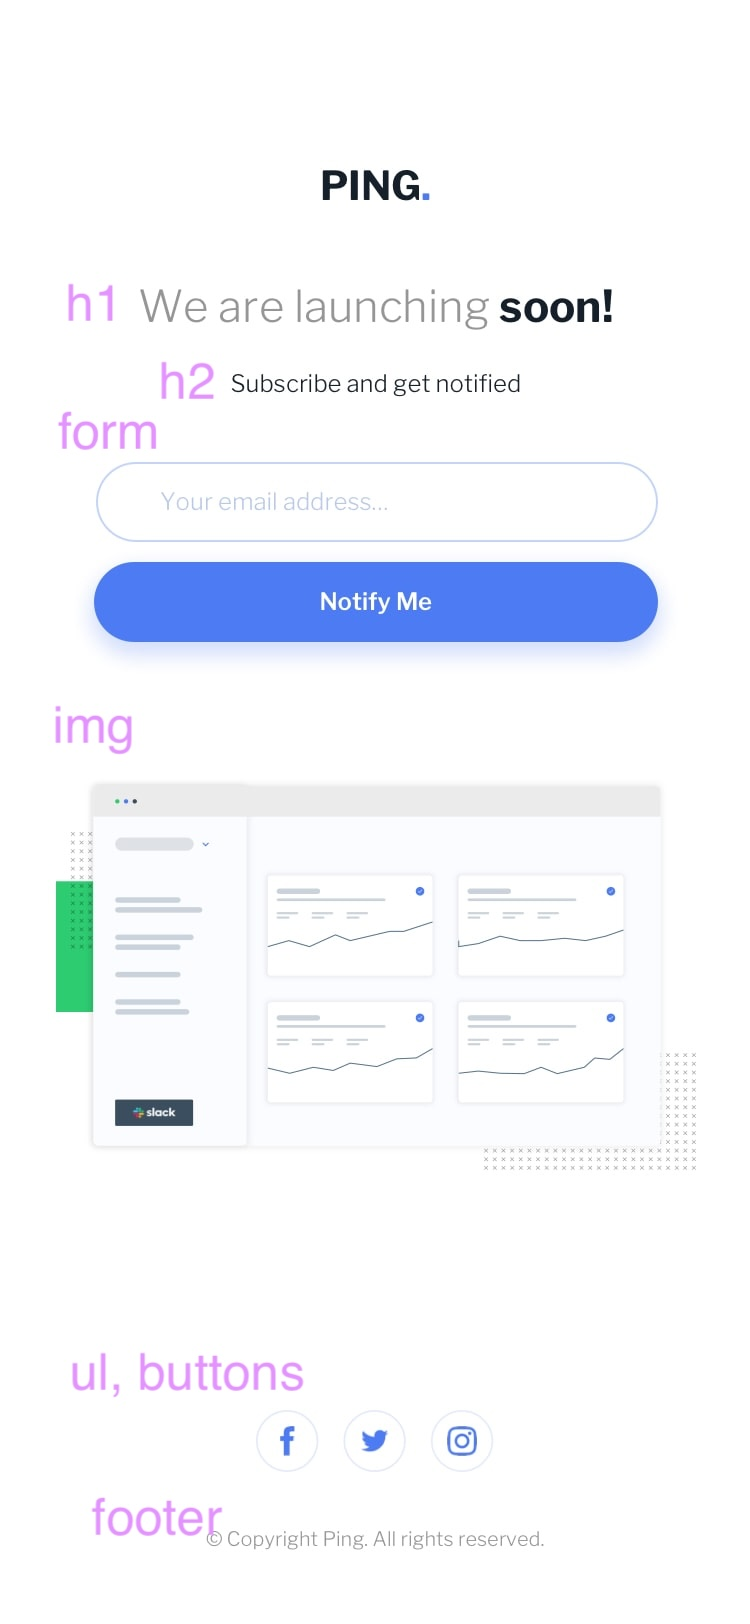
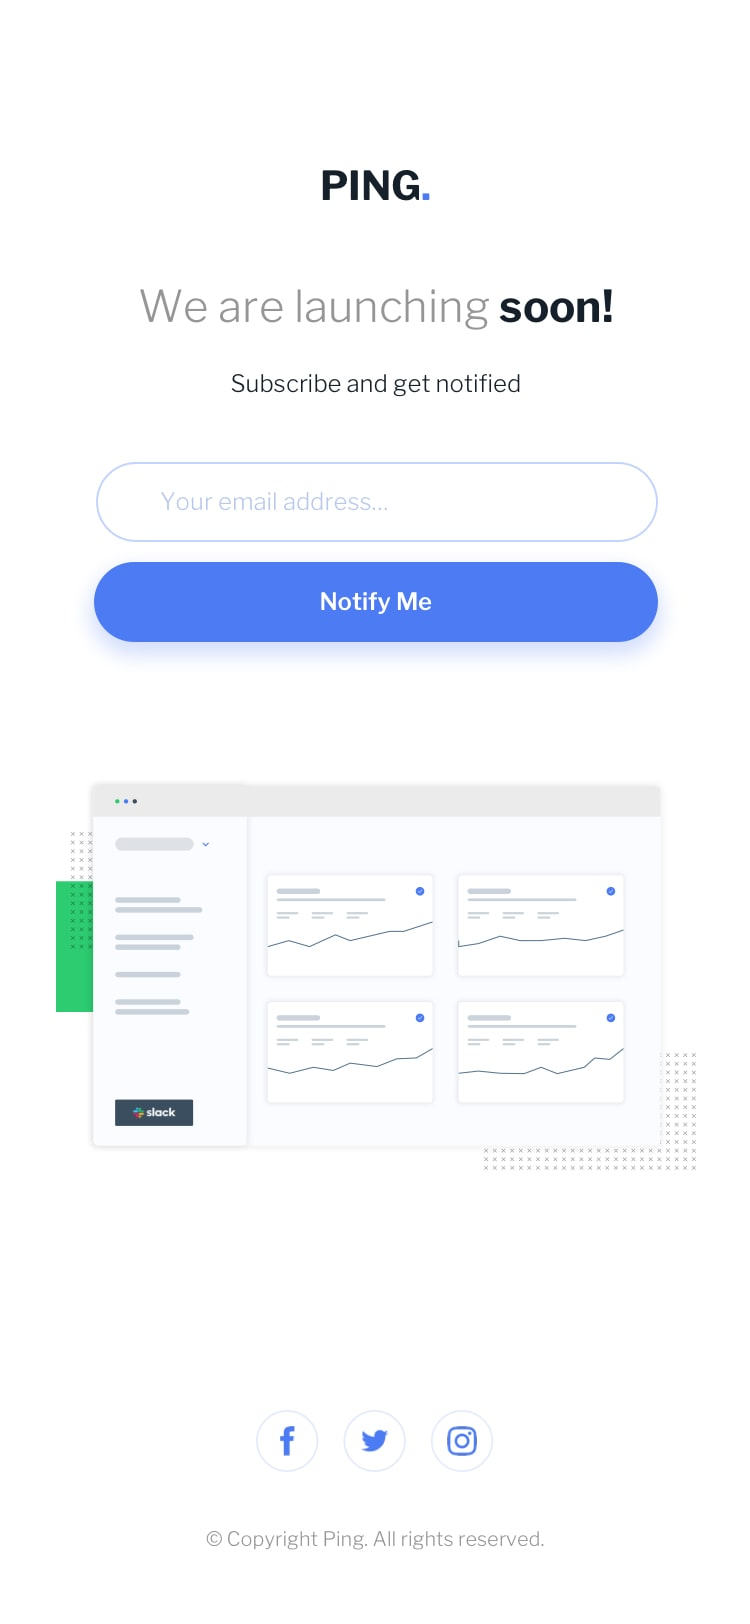
mobile screenshot for styles & initial JS

diff --git a/sass/input.scss b/sass/input.scss
@@ -4,7 +4,6 @@
 
 
 // PAGE MARGINS 
-
 body, header, footer { 
     margin: 30px 30px;
 }
@@ -40,9 +39,8 @@ strong {
     color: black;
     font-size: 0.75em;
     margin-bottom: 30px;
+    margin-top: 5px;
 }
-
-// form 
 
 form { 
 
@@ -52,18 +50,30 @@ form {
         pointer-events: none;
     }
 
+    .error-prompt { 
+        display: none; 
+        color: hsl(354, 100%, 66%); 
+        font-weight: 300;
+        font-size: 0.6em;
+        font-style: italic;
+    }
+
+    .example-email { 
+        display: none;
+    }
+
     .email, .notify-me { 
-        padding: 10px 25px;
+        padding: 13px 30px;
         width: 100%;
-        border: solid hsl(223, 87%, 63%, 50%) 1px;
-        border-radius: 16px;
+        border: solid hsl(223, 87%, 63%, 30%) 1px;
+        border-radius: 20px;
         display: inline-block;
         font-size: 0.7em;
-        margin: 3px 0;
+        margin: 5px 0;
     }
 
     .email { 
-        color: hsl(0, 0%, 59%, 60%); 
+        color: hsl(0, 0%, 59%, 50%); 
         font-weight: 300; 
         text-align: left;
     }
@@ -77,17 +87,18 @@ form {
 
 .illustration {
     width: 100%; 
-    // can't stop img from shrinking 
-    margin: 50px 0 100px 0;
+    margin: 75px 0 150px 0;
+    height: 35svh;
 }
 
 .socials-container { 
     color: hsl(223, 87%, 63%);
     font-size: 0.9em;
+    margin-bottom: -10px;
 
     a { 
         border-radius: 50%; 
-        width: 40px;
+        width: 35px;
         border: solid hsl(0, 0%, 59%, 30%) 1px;
         padding: 10px; // space between icon and border 
         margin: 4px; // space between icons 
@@ -99,7 +110,7 @@ footer {
     display: inline;
 
     .copyright { 
-        color: hsl(0, 0%, 59%); 
+        color: hsl(0, 0%, 59%, 70%); 
         font-weight: 300; 
         font-size: 1em;
         margin: 10px;

diff --git a/sass/input.css b/sass/input.css
@@ -60,6 +60,7 @@ strong {
   color: black;
   font-size: 0.75em;
   margin-bottom: 30px;
+  margin-top: 5px;
 }
 
 form input[type=email], form input[type=submit] {
@@ -67,17 +68,27 @@ form input[type=email], form input[type=submit] {
   opacity: 0;
   pointer-events: none;
 }
+form .error-prompt {
+  display: none;
+  color: hsl(354, 100%, 66%);
+  font-weight: 300;
+  font-size: 0.6em;
+  font-style: italic;
+}
+form .example-email {
+  display: none;
+}
 form .email, form .notify-me {
-  padding: 10px 25px;
+  padding: 13px 30px;
   width: 100%;
-  border: solid hsla(223, 87%, 63%, 0.5) 1px;
-  border-radius: 16px;
+  border: solid hsla(223, 87%, 63%, 0.3) 1px;
+  border-radius: 20px;
   display: inline-block;
   font-size: 0.7em;
-  margin: 3px 0;
+  margin: 5px 0;
 }
 form .email {
-  color: hsla(0, 0%, 59%, 0.6);
+  color: hsla(0, 0%, 59%, 0.5);
   font-weight: 300;
   text-align: left;
 }
@@ -89,16 +100,18 @@ form .notify-me {
 
 .illustration {
   width: 100%;
-  margin: 50px 0 100px 0;
+  margin: 75px 0 150px 0;
+  height: 35svh;
 }
 
 .socials-container {
   color: hsl(223, 87%, 63%);
   font-size: 0.9em;
+  margin-bottom: -10px;
 }
 .socials-container a {
   border-radius: 50%;
-  width: 40px;
+  width: 35px;
   border: solid hsla(0, 0%, 59%, 0.3) 1px;
   padding: 10px;
   margin: 4px;
@@ -109,7 +122,7 @@ footer {
   display: inline;
 }
 footer .copyright {
-  color: hsl(0, 0%, 59%);
+  color: hsla(0, 0%, 59%, 0.7);
   font-weight: 300;
   font-size: 1em;
   margin: 10px;

diff --git a/sass/output.css b/sass/output.css
@@ -60,6 +60,7 @@ strong {
   color: black;
   font-size: 0.75em;
   margin-bottom: 30px;
+  margin-top: 5px;
 }
 
 form input[type=email], form input[type=submit] {
@@ -67,17 +68,27 @@ form input[type=email], form input[type=submit] {
   opacity: 0;
   pointer-events: none;
 }
+form .error-prompt {
+  display: none;
+  color: hsl(354, 100%, 66%);
+  font-weight: 300;
+  font-size: 0.6em;
+  font-style: italic;
+}
+form .example-email {
+  display: none;
+}
 form .email, form .notify-me {
-  padding: 10px 25px;
+  padding: 13px 30px;
   width: 100%;
-  border: solid hsla(223, 87%, 63%, 0.5) 1px;
-  border-radius: 16px;
+  border: solid hsla(223, 87%, 63%, 0.3) 1px;
+  border-radius: 20px;
   display: inline-block;
   font-size: 0.7em;
-  margin: 3px 0;
+  margin: 5px 0;
 }
 form .email {
-  color: hsla(0, 0%, 59%, 0.6);
+  color: hsla(0, 0%, 59%, 0.5);
   font-weight: 300;
   text-align: left;
 }
@@ -89,16 +100,18 @@ form .notify-me {
 
 .illustration {
   width: 100%;
-  margin: 50px 0 100px 0;
+  margin: 75px 0 150px 0;
+  height: 35svh;
 }
 
 .socials-container {
   color: hsl(223, 87%, 63%);
   font-size: 0.9em;
+  margin-bottom: -10px;
 }
 .socials-container a {
   border-radius: 50%;
-  width: 40px;
+  width: 35px;
   border: solid hsla(0, 0%, 59%, 0.3) 1px;
   padding: 10px;
   margin: 4px;
@@ -109,7 +122,7 @@ footer {
   display: inline;
 }
 footer .copyright {
-  color: hsl(0, 0%, 59%);
+  color: hsla(0, 0%, 59%, 0.7);
   font-weight: 300;
   font-size: 1em;
   margin: 10px;

diff --git a/index.html b/index.html
@@ -15,9 +15,11 @@
   <h2 class="subheading">Subscribe and get notified</h2>
   <form> 
     <input type="email" id="email" name="email" class="input-email">
-    <label for="email">Your email address...</label>
-    <input type="submit" id="submit" name="submit" class="notify-me"> 
-    <label for="submit">Notify Me</label>
+    <label for="email" class="email">Your email address...</label> <!-- could this text be in the placeholder attribute for input, too?-->
+    <p class="error-prompt">Please provide a valid email address</p>
+    <p class="example-email">example@email/com</p>
+    <input type="submit" id="submit" name="submit" class="input-notify-me"> 
+    <label for="submit" class="notify-me">Notify Me</label>
   </form>
   <img class="illustration" src="images/illustration-dashboard.png" alt=""> 
   <div class="socials-container"> 

diff --git a/js/script.js b/js/script.js
@@ -1,0 +1,15 @@
+document.addEventListener("DOMContentLoaded", () => { 
+    let form = document.querySelector(".form");
+    let email = document.querySelector(".email");
+    let errorPrompt = document.querySelector(".error-prompt");
+    let exampleEmail = document.querySelector(".example-email");
+
+    form.addEventListener("submit", function(e))
+        e.preventDefault(); 
+
+        if (email) {
+            email.value = true;
+        else 
+            errorPrompt.style.display = "block";
+        }
+});

diff --git a/README.md b/README.md
@@ -52,6 +52,6 @@ This is a solution to the [Ping coming soon page challenge on Frontend Mentor](h
 
 ## Useful resources
 
-[]()
+[<input type="email">](https://developer.mozilla.org/en-US/docs/Web/HTML/Element/input/email)
 
 # ping-coming-soon
